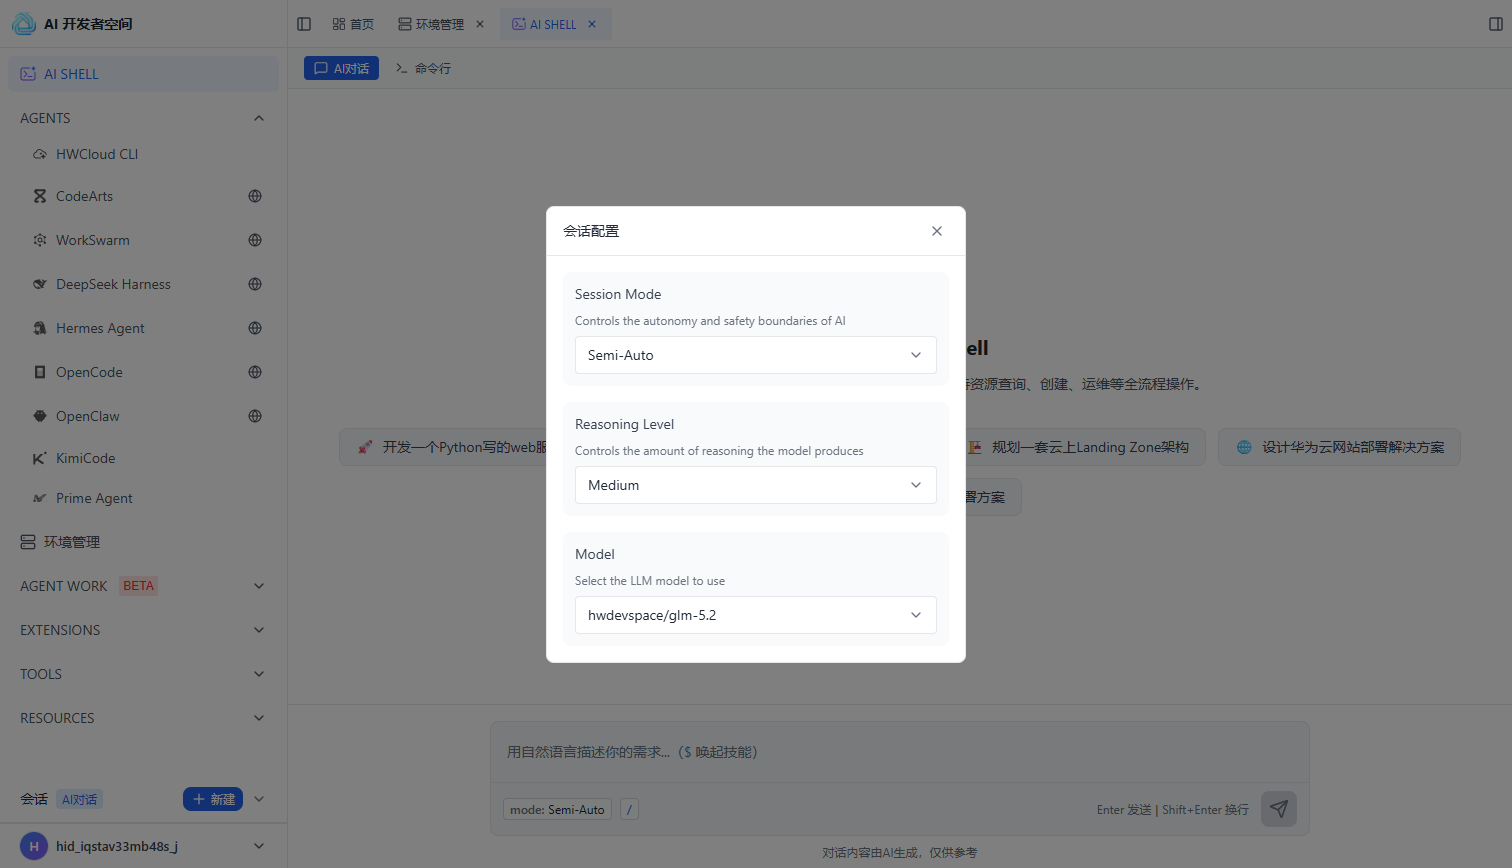
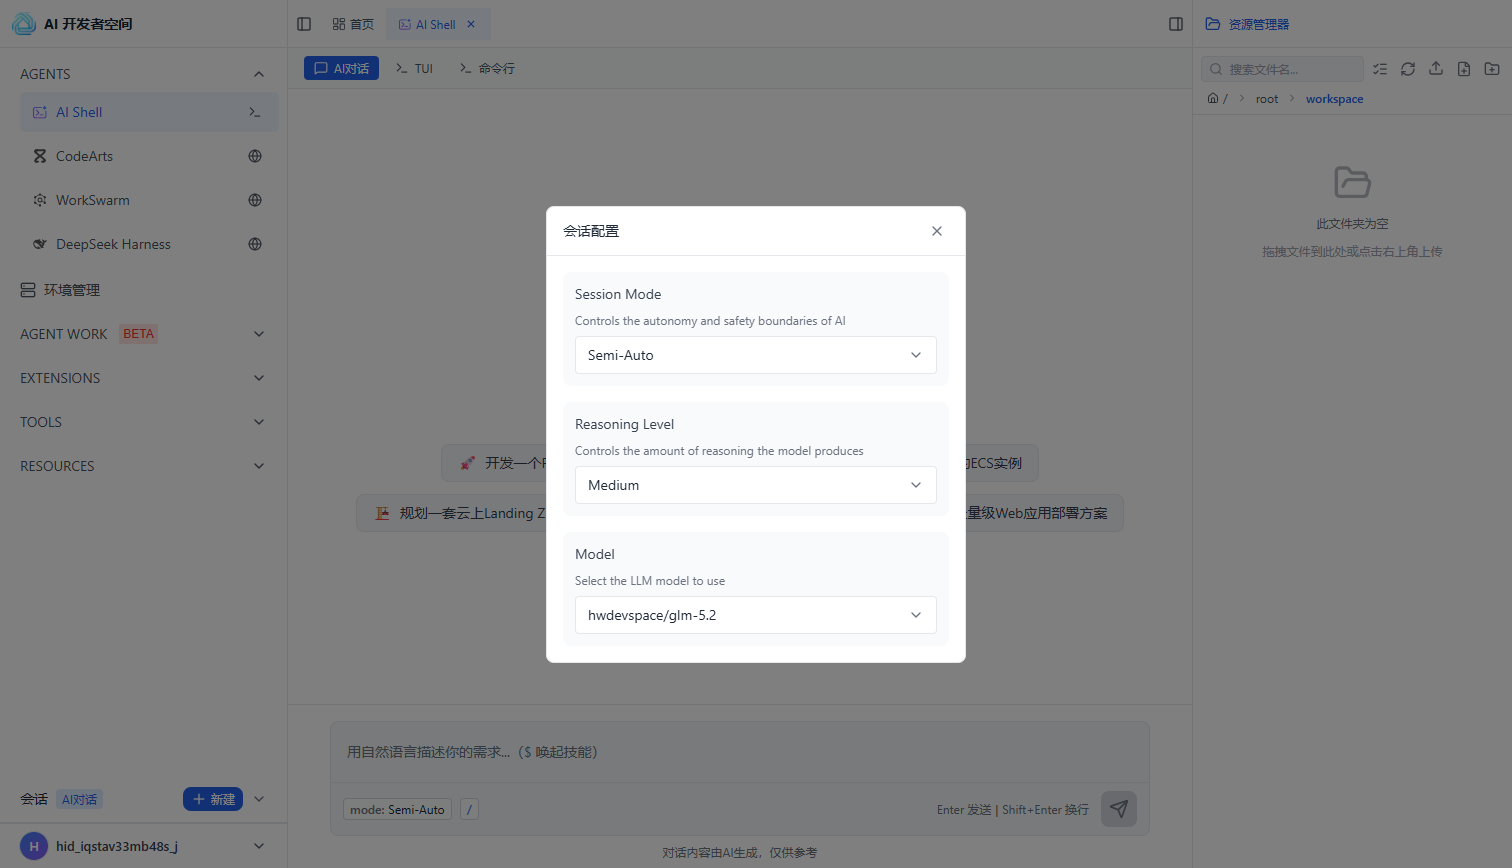
AI SHELL章节更新：三模式交互/CWD会话创建/输入增强/Semi-Auto配置项与模型列表，菜单AI SHELL移入AGENTS概览，同步更新主界面与会话配置截图并增加缓存版本参数

diff --git a/AIDevspace.html b/AIDevspace.html
@@ -610,9 +610,9 @@
     <div class="toc-title">开始使用</div>
     <nav id="toc">
       <a href="#intro">简介</a>
-      <a href="#ai-shell">AI SHELL</a>
       <a href="#agents" class="toggle-parent" id="agents-toggle"><span class="label">AGENTS 概览</span><span class="arrow">▸</span></a>
       <div class="submenu collapsed" id="agents-submenu">
+        <a href="#ai-shell" class="sub2">AI SHELL</a>
         <a href="#agent-hwcloud-cli" class="sub2">HWCloud CLI</a>
         <a href="#agent-codearts" class="sub2">CodeArts</a>
         <a href="#agent-WorkSwarm" class="sub2">WorkSwarm</a>
@@ -666,7 +666,7 @@
           <tr><th>模块</th><th>说明</th></tr>
         </thead>
         <tbody>
-          <tr><td><strong>AI SHELL</strong></td><td>核心入口，支持 AI 对话（自然语言交互）和命令行两种模式</td></tr>
+          <tr><td><strong>AI SHELL</strong></td><td>核心入口，支持 AI 对话、TUI、命令行三种交互模式</td></tr>
           <tr><td><strong>AGENTS</strong></td><td>9 个智能体，覆盖基础设施即代码、代码编写与分析、多 Agent 协作、DeepSeek 推理、编程辅助、个人助手、任务调度编排等场景</td></tr>
           <tr><td><strong>环境管理</strong></td><td>14 个作业环境，支持智能体、开发工具、数据库、基础设施四类分类，一键部署与管理</td></tr>
           <tr><td><strong>AGENT WORK</strong></td><td>智能体工作平台（Beta），包含 Agent 管理、项目、任务、小队、自动化 5 个子模块，覆盖从 Agent 定义、任务承载、多智能体协作到周期自动化的完整工作流</td></tr>
@@ -694,41 +694,49 @@
 
     <section id="ai-shell">
       <h2>AI SHELL</h2>
-      <p><strong>AI SHELL</strong> 是产品的核心入口，提供两种交互模式：</p>
+      <p><strong>AI SHELL</strong> 是产品的核心入口，大模型驱动，支持自然语言对话、智能排错与云端在线终端，提供三种交互模式：</p>
       <table>
         <thead>
           <tr><th>模式</th><th>用途</th><th>说明</th></tr>
         </thead>
         <tbody>
-          <tr><td><strong>AI 对话</strong></td><td>自然语言交互</td><td>用自然语言描述需求，AI 生成命令并执行</td></tr>
+          <tr><td><strong>AI 对话</strong></td><td>自然语言交互</td><td>用自然语言描述需求，AI 生成命令并执行（默认模式）</td></tr>
+          <tr><td><strong>TUI</strong></td><td>终端交互</td><td>终端界面（Terminal UI），面向习惯终端操作的开发者</td></tr>
           <tr><td><strong>命令行</strong></td><td>命令式操作</td><td>面向熟悉 CLI 的开发者，直接输入命令</td></tr>
         </tbody>
       </table>
 
       <p><strong>操作步骤：</strong></p>
       <ol class="steps">
-        <li>点击左侧 <strong>AI SHELL</strong>，进入对话界面</li>
-        <li>在顶部切换「AI 对话」或「命令行」模式</li>
-        <li>点击输入框，用自然语言描述需求（例如"查询所有运行中的 ECS 实例"）并发送</li>
-        <li>点击「创建会话」或「新建」可开启新的对话</li>
+        <li>在左侧 <strong>AGENTS 概览</strong>下点击 <strong>AI SHELL</strong>，进入 AI 对话界面</li>
+        <li>点击 <strong>「新建」</strong>创建会话，可指定工作目录（CWD），缺省为 <code>/root/workspace</code></li>
+        <li>在输入框用自然语言描述需求（例如"查询所有运行中的 ECS 实例"），按 Enter 发送（Shift+Enter 换行）</li>
+        <li>点击顶部标签可随时切换「AI 对话」「TUI」「命令行」模式</li>
       </ol>
 
-      <img class="screenshot" src="images/ai-shell.png" alt="AI SHELL 主界面" />
-      <div class="figcaption">AI SHELL 主界面：AI 对话模式、快捷建议与输入框</div>
+      <img class="screenshot" src="images/ai-shell.png?v=20260916" alt="AI SHELL 主界面" />
+      <div class="figcaption">AI SHELL 主界面：三种模式切换、快捷建议与需求输入框</div>
 
-      <p>点击输入框左侧的 <code>mode: Manual</code> 按钮，可配置会话参数：</p>
+      <p><strong>输入增强：</strong></p>
+      <ul>
+        <li>输入 <code>/</code> 触发快捷指令：<code>/clear</code>、<code>/compact</code>、<code>/cwd</code>、<code>/help</code>、<code>/mode</code>、<code>/model</code>、<code>/new</code>、<code>/rename</code>、<code>/sessions</code>、<code>/settings</code></li>
+        <li>输入 <code>$</code> 快速引用技能</li>
+        <li>右侧资源管理器中可将文件「添加到对话」作为上下文</li>
+      </ul>
+
+      <p>点击输入框左下方的 <code>mode: Semi-Auto</code> 按钮，可打开会话配置：</p>
       <table>
         <thead>
-          <tr><th>配置项</th><th>说明</th><th>示例</th></tr>
+          <tr><th>配置项</th><th>说明</th><th>可选值</th></tr>
         </thead>
         <tbody>
-          <tr><td><strong>Session Mode</strong></td><td>控制 AI 的自主性与安全边界</td><td>Manual（手动确认执行）</td></tr>
-          <tr><td><strong>Reasoning Level</strong></td><td>控制模型产生的推理量</td><td>Medium（中等）</td></tr>
-          <tr><td><strong>Model</strong></td><td>选择使用的 LLM 模型</td><td>hwdevspace/glm-5.2</td></tr>
+          <tr><td><strong>Session Mode</strong></td><td>控制 AI 的自主性与安全边界</td><td>Auto / Semi-Auto（默认）/ Manual / Plan</td></tr>
+          <tr><td><strong>Reasoning Level</strong></td><td>控制模型产生的推理量</td><td>Low / Medium（默认）/ High</td></tr>
+          <tr><td><strong>Model</strong></td><td>选择使用的 LLM 模型</td><td>hwdevspace/glm-5.1 / hwdevspace/glm-5.2 / hwdevspace/openpangu-2.0-flash</td></tr>
         </tbody>
       </table>
 
-      <img class="screenshot" src="images/ai-shell-config.png" alt="AI SHELL 会话配置" />
+      <img class="screenshot" src="images/ai-shell-config.png?v=20260916" alt="AI SHELL 会话配置" />
       <div class="figcaption">会话配置面板：Session Mode / Reasoning Level / Model</div>
     </section>
 
